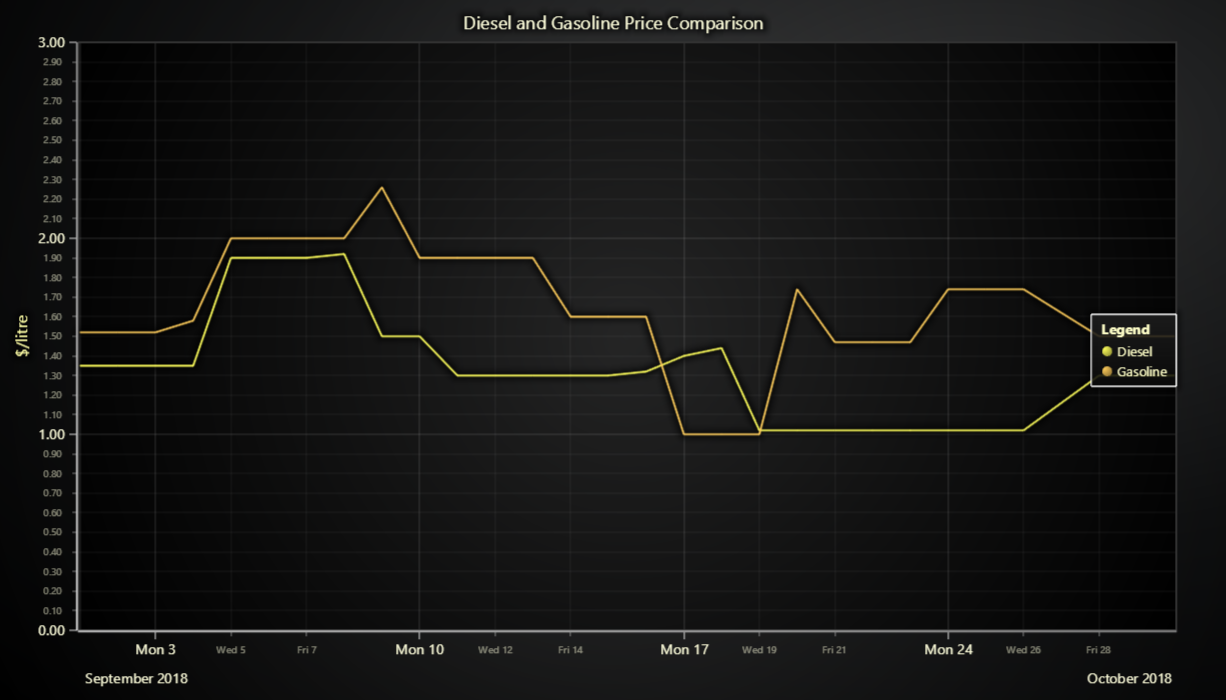
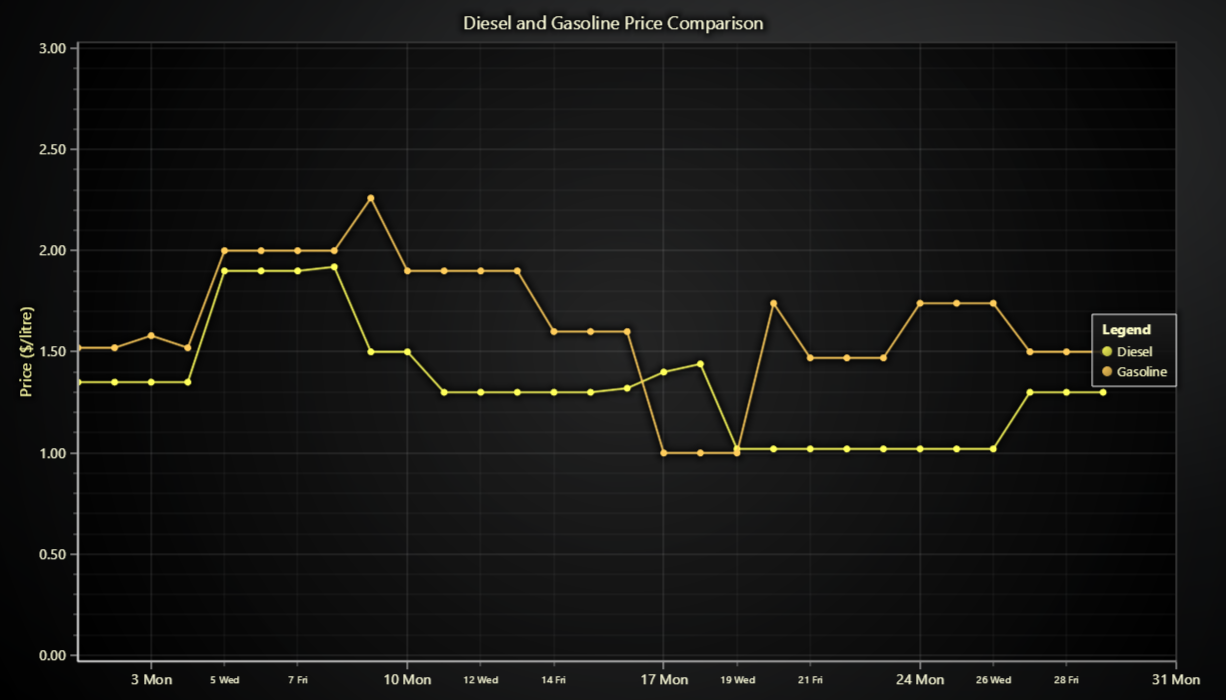
LCJS v7.0.1

diff --git a/src/index.js b/src/index.js
@@ -14,17 +14,9 @@ const chart = lightningChart({
     theme: Themes[new URLSearchParams(window.location.search).get('theme') || 'darkGold'] || undefined,
 })
 
-// Modify the default X Axis to use DateTime TickStrategy, and set the axis interval
-chart.axisX.setTickStrategy(AxisTickStrategies.DateTime).setInterval({
-    start: new Date(2022, 0, 1).getTime(),
-    end: new Date(2022, 0, 31).getTime(),
-})
+chart.axisX.setTickStrategy(AxisTickStrategies.DateTime)
 
-chart
-    .setPadding({
-        right: 50,
-    })
-    .setTitle('Diesel and Gasoline Price Comparison')
+chart.setTitle('Diesel and Gasoline Price Comparison')
 
 const diesel = [
     { x: new Date(2022, 0, 1).getTime(), y: 1.52 },

diff --git a/README.md b/README.md
@@ -77,6 +77,6 @@ Direct developer email support can be purchased through a [Support Plan][4] or b
 © LightningChart Ltd 2009-2022. All rights reserved.
 
 
-[XY cartesian chart]: https://lightningchart.com/js-charts/api-documentation/v6.1.0/classes/ChartXY.html
-[Line series]: https://lightningchart.com/js-charts/api-documentation/v6.1.0/classes/LineSeries.html
+[XY cartesian chart]: https://lightningchart.com/js-charts/api-documentation/v7.0.1/classes/ChartXY.html
+[Line series]: https://lightningchart.com/js-charts/api-documentation/v7.0.1/classes/LineSeries.html
 
